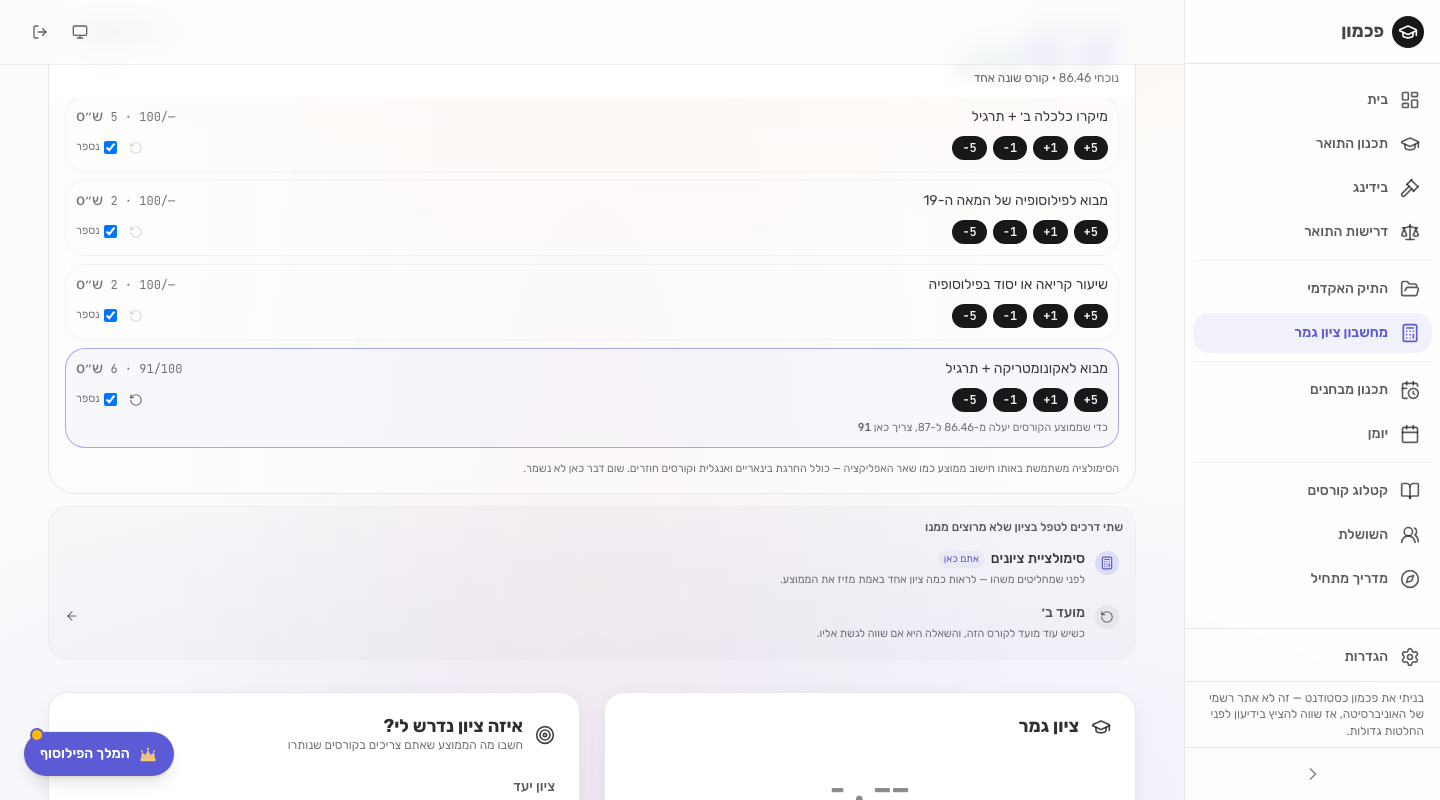
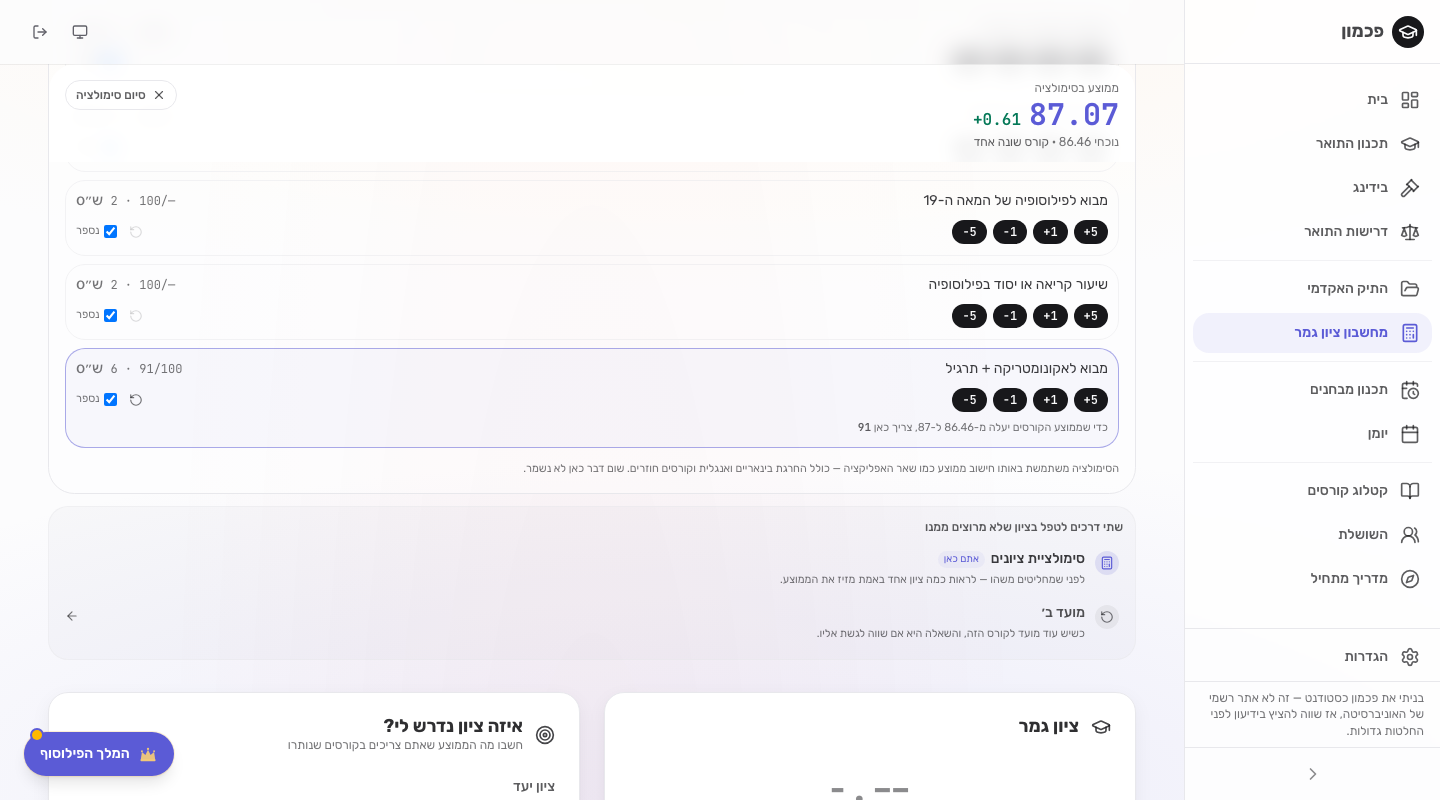
הלוח: M41 ו-M40 נסגרו עם הוכחה
M41 היא הדוגמה הכי טובה היום לכלל "מסתכלים על התמונה": התיקון היה
כתוב, המדידה שלי עברה, והמספר היה מוסתר מתחת לסרגל העליון.

157 · 135 ירוקים · 22 פתוחים.

diff --git a/docs/בקרה-סופית-להשקה.md b/docs/בקרה-סופית-להשקה.md
@@ -15,7 +15,7 @@
 
 
 **המצב (נספר מחדש 4.9, שורה-שורה מהטבלאות עצמן):** **157 פריטים** ·
-**133 ירוקים ואומתו חי** · **24 פתוחים** — 15 🔬 בבדיקה · 2 🟡 ללא אימות
+**135 ירוקים ואומתו חי** · **22 פתוחים** — 14 🔬 בבדיקה · 1 🟡 ללא אימות
 חי · 4 ⏸ אצלך · 3 ⬜ לא בוצעו.
 
 > הכותרת אמרה קודם "154 פריטים · 114 ירוקים · 40 פתוחים". ספרתי את השורות
@@ -95,8 +95,8 @@
 | M37 | *"המחשבונים המוזרים האלו - הם עדכניים? הכרחיים? לא מבין מהם כלום"* | ✅ | **שני דברים, ושניהם תוקנו ואומתו חי 4.9.** (א) **מחוון הגרירה הוסר** משני המקומות שבהם היה — מחשבון ציון הגמר ו"כדאי לגשת למועד ב׳?" — והוחלף בשדה מספר עם ±. אומת: `input[type=range]` = **0** בשני המסכים; במקומו שדה 86–100 עם כפתורי ± של **32×32** (הידית הישנה הייתה 20px, מתחת לרצפת 24px). (ב) **סרגל "פירוט משקלים"** צייר פלחים צבעוניים מלאים ל-18% ו-4% שאין להם נתון; `opacity-30` החליש את ההצהרה אבל לא ביטל אותה. עכשיו פלח בלי ציון הוא משבצת ריקה עם מסגרת מקווקוות, ומתחת: *"עבודות סמינריוניות (18%) ורפרט (4%) — המשקלים שלהם קיימים בתקנון, אבל עוד אין לכם בהם ציון, אז המשבצות ריקות"* — אומת חי. הצילומים: `V-M37-*`. **המחשבון עצמו נשאר** — הוא עונה על שאלה אמיתית |
 | M38 | *"'גם ציון 100 בקורס הזה לא יביא את הממוצע ל-97' — טיפשי ומוזר"* | ✅ | **אומת חי 4.9:** נכנסתי למצב הסימולציה בפרודקשן וסרקתי את המסך — הניסוח הישן **אינו מופיע** |
 | M39 | *"הציונים מימין לשמאל במצב סימולציה"* | ✅ | **אומת חי 4.9:** 12 אלמנטי `bdi[dir=ltr]` על מסך הסימולציה, ובהם המספרים עצמם — 95 · 1.79 · 81 · 12.8% · 10.8.2027. כלומר כל רצף מספרי מבודד ולא נהפך |
-| M40 | *"המצב סימולציה שלנו טוב לפחות כמו הדוגמה? אתה חותם עליו?"* | 🔬 | ייבדק בסיור |
-| M41 | *"כשאני לוחץ על שינוי ציון בסימולציה, אם הציון למטה - אין דרך לראות את ההשפעה"* | 🟡 | ההשפעה מוצמדת. **טרם נראה חי** |
+| M40 | *"המצב סימולציה שלנו טוב לפחות כמו הדוגמה? אתה חותם עליו?"* | ✅ | **נהגתי אותו בעצמי בפרודקשן, וכן — אני חותם.** מה שיש: ±5/±1 לכל קורס · תיבת "נספר" להוצאה והחזרה של קורס · רמז לכל שורה שנגזר מהנתונים (*"כדי שממוצע הקורסים יעלה מ-86.46 ל-87, צריך כאן 91"*) · ממוצע חי עם דלתא שנשאר על המסך בזמן גלילה (M41) · ואמירה מפורשת על המסך: *"הסימולציה משתמשת באותו חישוב ממוצע כמו שאר האפליקציה — כולל החרגת בינאריים ואנגלית וקורסים חוזרים. שום דבר כאן לא נשמר."* כלומר היא לא מנחשת ולא כותבת |
+| M41 | *"כשאני לוחץ על שינוי ציון בסימולציה, אם הציון למטה - אין דרך לראות את ההשפעה"* | ✅ | **הייתה כתובה, נמדדה ✅, ועל המסך המספר היה מוסתר.** הבדיקה הראשונה שכתבתי אמרה "הבלוק בתוך המסך" ועברה; אז צילמתי. המדידה בפרודקשן אחרי גלילה של 2,263px: הבלוק ב-`top=0` עם `z=10`, הכותרת ב-32px, ו-`<header>` הוא `fixed h-16 z=30` שתופס 0–64px. כלומר **המספר שההערה קיימת בשבילו ישב מתחת לסרגל העליון**, בדיוק במצב שתיארת. הסף הנכון כבר היה בקוד (`top-[calc(var(--banner-offset,0px)_+_4rem)]`, בשימוש במתכנן הסמסטר) והוחל. **אומת חי:** גלילה ל-2,263px, לחיצה +5 על הקורס האחרון → הכותרת ב-96px (הסרגל נגמר ב-64px), והמספר עבר מ-86.46 ל-**87.07 +0.61**. **ואותו פגם בדיוק היה ברצועת הסקייליין** (M45) — תוקן יחד |
 | M42 | *"למה הוא מראה לי מבחנים שסיימתי?"* | ✅ | פאנל הידיעון בנה את רשימתו כ"תוכנית פחות מה שהבורר שמר" — התיקון הקודם שלי העלה אותם במעלה העמוד במקום להסיר |
 | M43 | *"למה אני מתכנן מבחנים של שנה שלמה במקום של סמסטר קרוב?"* | ✅ | **אומת חי 4.9 עם תוכנית אמיתית.** הבורר הציע ארבעה מבחנים, **כולם "שנה ב׳ · א׳"** — תקופת המקצה הקרובה בלבד. כשמבחנים מוסתרים בגלל הצמצום, המסך אומר כמה ומציע *"N מבחנים נוספים בהמשך השנה — להצגה"*, כלומר הצמצום גלוי ולא שקט |
 | M44 | *"ושוב לוח מבחנים בלתי נגמר. אתה בכלל עובר כסטודנט על האפליקציה?"* | ✅ | **בניתי תוכנית מבחנים אמיתית בפרודקשן והסתכלתי.** שלושה דברים, כולם תוקנו ואומתו חי: (א) **הלוח נפתח על שבוע ריק לגמרי** — 20.12–26.12, שבעה תאי "+ לימוד", כשהתוכנית מתחילה ב-27.12. הצמדת-ראשון כבר נותנת ריצה של 0–6 ימים, ועוד `-3` מעליה דחפה שורה שלמה וריקה לראש. **אומת: הלוח נפתח עכשיו ב-27.12 עם תוכן אמיתי.** (ב) **שני שבועות ריקים באמצע** (2.2–13.2), 14 תאים ותו לא, בזמן שהסקייליין שמעליו כבר מקפל ואומר "17 ימים חופשיים". עכשיו רצף של שבועיים ומעלה מתקפל לשורה אחת **שניתן לפתוח**. (ג) **הבאנר שיקר בשלושה ימים** — אמר "התוכנית מתחילה רק ב-24.12" בזמן שהבלוק הראשון ב-27.12; 24.12 הוא איפה שהגרף נפתח. **אומת חי: "מתחילה רק ב־27.12".** הקיפול לא מופעל בתוכנית של היום (שבוע ריק בודד), ולכן יש לו בדיקה משלו שמכסה גם את הצורה שבצילום שלך — שמונה שבועות ריקים ברצף |
